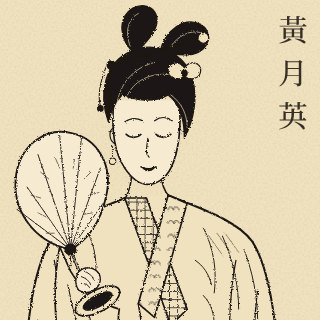
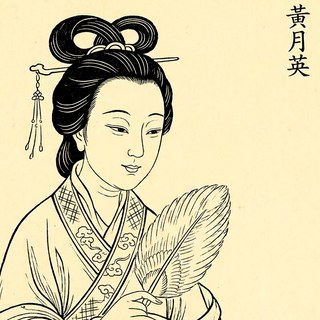
Hoàng Nguyệt Anh: thay chân dung mới
Claude-Session: https://claude.ai/code/session_01RKU599uuRKKzbb9YuJKPMX

diff --git a/tamquoc/js/images.js b/tamquoc/js/images.js
@@ -32,7 +32,7 @@ export const IMG = {
   "g-ganning": {"pos": "50% 50%", "for": "Chân dung Cam Ninh", "t": "GanNing.jpg", "a": "Không rõ tác giả (hoạ sĩ minh hoạ đời Thanh)", "d": "Đời Thanh", "l": "Public domain", "u": "https://commons.wikimedia.org/wiki/File:GanNing.jpg"},
   "g-guanyu": {"pos": "50% 50%", "for": "Chân dung Quan Vũ", "t": "Guan Yu Portrait.jpg", "a": "Không rõ tác giả", "d": "before 1912", "l": "Public domain", "u": "https://commons.wikimedia.org/wiki/File:Guan_Yu_Portrait.jpg"},
   "g-guojia": {"pos": "50% 50%", "for": "Chân dung Quách Gia", "t": "GuoJia.jpg", "a": "Không rõ tác giả (hoạ sĩ minh hoạ đời Thanh)", "d": "Đời Thanh", "l": "Public domain", "u": "https://commons.wikimedia.org/wiki/File:GuoJia.jpg"},
-  "g-huangyueying": {"pos": "50% 50%", "for": "Chân dung Hoàng Nguyệt Anh", "t": "img/src/huangyueying.svg", "a": "BGVN tự vẽ (phong cách tranh khắc gỗ)", "d": "2026", "l": "Tác phẩm gốc của BGVN", "u": "img/src/huangyueying.svg"},
+  "g-huangyueying": {"pos": "50% 50%", "v": 7},
   "g-huanggai": {"pos": "50% 50%", "for": "Chân dung Hoàng Cái", "t": "HuangGai.jpg", "a": "Không rõ tác giả (hoạ sĩ minh hoạ đời Thanh)", "d": "Đời Thanh", "l": "Public domain", "u": "https://commons.wikimedia.org/wiki/File:HuangGai.jpg"},
   "g-huangzhong": {"pos": "50% 50%", "for": "Chân dung Hoàng Trung", "t": "Huang Zhong Portrait.jpg", "a": "Không rõ tác giả (hoạ sĩ minh hoạ đời Thanh)", "d": "Đời Thanh", "l": "Public domain", "u": "https://commons.wikimedia.org/wiki/File:Huang_Zhong_Portrait.jpg"},
   "g-huatuo": {"pos": "50% 50%", "for": "Chân dung Hoa Đà", "t": "HuaTuo.jpg", "a": "Không rõ tác giả (hoạ sĩ minh hoạ đời Thanh)", "d": "Đời Thanh", "l": "Public domain", "u": "https://commons.wikimedia.org/wiki/File:HuaTuo.jpg"},

diff --git a/tamquoc/js/art.js b/tamquoc/js/art.js
@@ -1,11 +1,11 @@
 // Hình lá bài & chân dung: tranh cổ thuộc phạm vi công cộng (Wikimedia Commons, xem img/CREDITS.md) trong img/,
 // đè lên lớp SVG tự vẽ (khung màu theo nước, chữ Hán thư pháp, vật biểu tượng) – ảnh lỗi thì tự rơi về SVG.
 import { GENERALS, KINGDOMS, CARD_INFO, SUIT_SYMBOL, rankLabel, cardName, isRed, infoOf, artKey } from './cards.js?v=7';
-import { IMG } from './images.js?v=8';
+import { IMG } from './images.js?v=9';
 import { weaponSVG } from './weapons.js?v=7';
 // biểu tượng nhỏ: binh khí/trang bị vẽ SVG đúng hình, còn lại emoji
 export function emoOf(type) { const w = weaponSVG(type, 'wi'); return w || (CARD_INFO[type] ? CARD_INFO[type].emo : ''); }
-const imgTag = (key, cls) => IMG[key] ? `<img class="${cls}" src="img/${key}.jpg?v=6" alt="" draggable="false" loading="lazy" style="object-position:${IMG[key].pos || '50% 30%'}" onerror="this.remove()">` : '';
+const imgTag = (key, cls) => IMG[key] ? `<img class="${cls}" src="img/${key}.jpg?v=${IMG[key].v || 6}" alt="" draggable="false" loading="lazy" style="object-position:${IMG[key].pos || '50% 30%'}" onerror="this.remove()">` : '';
 
 let uid = 0;
 // mây cát tường (tường vân) – nét cuộn đơn giản

diff --git a/tamquoc/js/main.js b/tamquoc/js/main.js
@@ -8,10 +8,10 @@ import { createReactions } from '../../shared/ui/react.js?v=2';
 import { netStatus } from '../../shared/ui/status.js';
 import { openNews, newsBadge } from '../../shared/ui/news.js?v=1';
 import { syncPick, endPick, pickActive } from '../../shared/ui/seatpick.js?v=1';
-import { portrait, blankPortrait, cardHTML, backHTML, generalCardHTML, kindTag, iconsFor, emoOf } from './art.js?v=8';
+import { portrait, blankPortrait, cardHTML, backHTML, generalCardHTML, kindTag, iconsFor, emoOf } from './art.js?v=9';
 import * as fx from './fx.js?v=8';
 import { musicToggle, musicIsOn, musicVolume, musicResumeIfOn, musicIntensity, musicStinger } from './music.js?v=8';
-import { openGuide as guide } from './guide.js?v=9';
+import { openGuide as guide } from './guide.js?v=10';
 import { SKILL_HELP, SKILL_TYPE } from './skillhelp.js?v=7';
 import { PHASE_HELP } from './coach.js?v=7';
 

diff --git a/shared/patchnotes.js b/shared/patchnotes.js
@@ -9,7 +9,7 @@ export const NOTES = [
   { id: '20261110-08', date: '10/11/2026', game: 'all', title: 'Nút về trang chủ + sửa lặt vặt', items: [
     '🏠 Hộp "Rời ván?" ở mọi game có thêm nút Về trang chủ BGVN (Bang!: trong ⚙).',
     '🎴 Tam Quốc Sát: màn bốc thẻ thân phận – chữ trên thẻ tre không còn bị vỡ dấu/cắt chữ, nền che kín, chữ "Bạn là …" dễ đọc.',
-    '🖌 Tam Quốc Sát: Hoàng Nguyệt Anh có chân dung nét mực BGVN tự vẽ (thay con dấu).',
+    '🖌 Tam Quốc Sát: Hoàng Nguyệt Anh có chân dung nét mực mới (thay con dấu).',
     '🤖 Tên bot có chữ cái đầu khác nhau (Kẹo, Xôi, Gấu Bông, Đậu, Nấm, Sữa…) để avatar không trùng.',
   ] },
   { id: '20261110-07', date: '10/11/2026', game: 'all', title: 'Đổi tên bot', items: [

diff --git a/shared/ui/news.js b/shared/ui/news.js
@@ -3,7 +3,7 @@
 //   nút.onclick = () => openNews('uno');        // mở hộp, chỉ hiện bản của game đó + bản chung
 //   newsBadge(nút, 'uno');                       // gắn chấm đỏ "mới" nếu có bản chưa xem
 // Hộp tự có CSS riêng (không phụ thuộc theme game), đóng bằng nút ✕ / bấm nền / phím Esc.
-import { NOTES, GAMES, latestId } from '../patchnotes.js?v=52';
+import { NOTES, GAMES, latestId } from '../patchnotes.js?v=53';
 const KEY = g => 'bgvn-news-seen-' + (g || 'all');
 const ls = { get: k => { try { return localStorage.getItem(k); } catch (e) { return null; } }, set: (k, v) => { try { localStorage.setItem(k, v); } catch (e) {} } };
 const esc = s => String(s).replace(/[&<>"]/g, c => ({ '&': '&amp;', '<': '&lt;', '>': '&gt;', '"': '&quot;' }[c]));

diff --git a/tamquoc/js/guide.js b/tamquoc/js/guide.js
@@ -1,7 +1,7 @@
 // Hướng dẫn luật Tam Quốc Sát (bản BGVN) – soạn lại bằng lời của hội, rút gọn hợp lý cho bản web.
 import { CARD_INFO, GENERALS, SKILLS, KINGDOMS, ROLES, buildDeck, rolesFor, DECK_SIZE_BASE, DECK_SIZE_EXP, HORSE_NAMES, artKey } from './cards.js?v=7';
-import { cardHTML, portrait } from './art.js?v=8';
-import { IMG } from './images.js?v=8';
+import { cardHTML, portrait } from './art.js?v=9';
+import { IMG } from './images.js?v=9';
 import { gp, ill } from '../../shared/ui/guidepics.js?v=1';
 import { GI, GV } from './guide-img.js?v=1';
 

diff --git a/tamquoc/index.html b/tamquoc/index.html
@@ -131,7 +131,7 @@
 <div class="reveal hidden" id="reveal"></div>
 <div class="toast hidden" id="toast"></div>
 <div id="card-tip"></div>
-<script type="module" src="js/main.js?v=14"></script>
+<script type="module" src="js/main.js?v=15"></script>
 <script type="module" src="../shared/ui/homebtn.js?v=1"></script>
 </body>
 </html>

diff --git a/tamquoc/img/CREDITS.md b/tamquoc/img/CREDITS.md
@@ -67,6 +67,3 @@ Binh khí/trang bị trên lá bài là hình SVG do BGVN tự vẽ (`js/weapons
 | g-zhouyu.jpg | Chân dung Chu Du | [ZhouYu.jpg](https://commons.wikimedia.org/wiki/File:ZhouYu.jpg) | Không rõ tác giả (hoạ sĩ minh hoạ đời Thanh) | Đời Thanh | Public domain |
 | g-zhugeliang.jpg | Chân dung Gia Cát Lượng | [ZhugeLiang1.jpg](https://commons.wikimedia.org/wiki/File:ZhugeLiang1.jpg) | Không rõ tác giả (hoạ sĩ minh hoạ đời Thanh) | Đời Thanh | Public domain |
 
-
-## g-huangyueying.jpg – Chân dung Hoàng Nguyệt Anh
-BGVN tự vẽ (2026), mô phỏng phong cách tranh khắc gỗ đời Thanh; không dựa trên tranh có bản quyền nào. Nguồn vẽ: img/src/huangyueying.svg.
